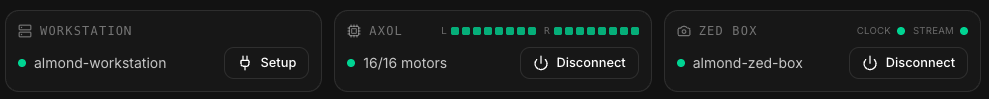
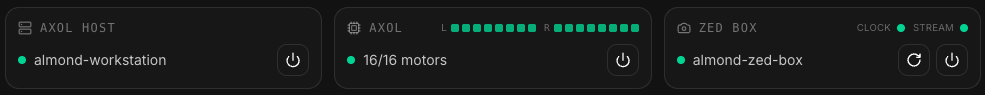
update docs

diff --git a/web/app/src/components/connections-bar.tsx b/web/app/src/components/connections-bar.tsx
@@ -33,11 +33,11 @@ function Tile({
   headerRight?: ReactNode
 }) {
   return (
-    <div className="group relative flex min-w-0 flex-1 flex-col gap-2 rounded-xl border border-white/10 bg-white/[0.02] p-3">
+    <div className="group relative flex min-w-0 flex-1 flex-col gap-2 overflow-hidden rounded-xl border border-white/10 bg-white/[0.02] p-3">
       <div className="flex items-center justify-between gap-2">
-        <div className="flex items-center gap-2 text-xs tracking-widest text-white/40 uppercase">
+        <div className="flex min-w-0 items-center gap-2 text-xs tracking-widest text-white/40 uppercase">
           {icon}
-          <span className="font-mono">{title}</span>
+          <span className="truncate font-mono">{title}</span>
         </div>
         {headerRight}
       </div>
@@ -134,7 +134,7 @@ export function ConnectionsBar({
       : "Not connected"
 
   return (
-    <div className="grid grid-cols-1 gap-3 sm:grid-cols-3">
+    <div className="grid grid-cols-1 gap-3 lg:grid-cols-3">
       <Tile
         icon={<Server className="size-3.5" />}
         title="Axol Host"
@@ -297,7 +297,7 @@ export function MotorGrid({ robot }: { robot: RobotStatus }) {
   if (!robot.motors.length) return null
   const arms = ["left", "right"]
   return (
-    <div className="flex items-center gap-2">
+    <div className="flex flex-wrap items-center justify-end gap-x-2 gap-y-1">
       {arms.map((arm) => (
         <div key={arm} className="flex items-center gap-1">
           <span className="font-mono text-[0.6rem] text-white/35">{arm[0].toUpperCase()}</span>

diff --git a/almond_axol/cli/serve.py b/almond_axol/cli/serve.py
@@ -22,11 +22,10 @@ import time
 import webbrowser
 from pathlib import Path
 
-# Share the VR server's self-signed certificate so a single cert acceptance
-# covers both the teleop WSS link and this control-panel API.
-_CERTS_DIR = os.path.join(os.path.expanduser("~"), ".almond", "vr", "certs")
-_CERTFILE = os.path.join(_CERTS_DIR, "cert.pem")
-_KEYFILE = os.path.join(_CERTS_DIR, "key.pem")
+from ..certs import CERTFILE, KEYFILE, create_self_signed_cert
+
+# The VR server and this control-panel API share one self-signed certificate
+# (see ``almond_axol.certs``) so a single browser cert acceptance covers both.
 
 
 def add_parser(subparsers) -> None:  # type: ignore[type-arg]
@@ -93,7 +92,7 @@ def run(args: argparse.Namespace) -> None:
     ssl_kwargs: dict[str, str] = {}
     if tls:
         _ensure_cert()
-        ssl_kwargs = {"ssl_certfile": _CERTFILE, "ssl_keyfile": _KEYFILE}
+        ssl_kwargs = {"ssl_certfile": CERTFILE, "ssl_keyfile": KEYFILE}
     scheme = "https" if tls else "http"
 
     local = f"{scheme}://localhost:{args.port}"
@@ -120,12 +119,10 @@ def run(args: argparse.Namespace) -> None:
 
 def _ensure_cert() -> None:
     """Generate the shared self-signed cert on first use (idempotent)."""
-    if os.path.isfile(_CERTFILE) and os.path.isfile(_KEYFILE):
+    if os.path.isfile(CERTFILE) and os.path.isfile(KEYFILE):
         return
-    from ..vr.certs import create_self_signed_cert
-
     print("Generating self-signed TLS certificate ...")
-    create_self_signed_cert(_CERTFILE, _KEYFILE)
+    create_self_signed_cert(CERTFILE, KEYFILE)
 
 
 def _open_browser_when_ready(url: str) -> None:

diff --git a/almond_axol/vr/server.py b/almond_axol/vr/server.py
@@ -38,13 +38,11 @@ import uvicorn
 from fastapi import FastAPI, WebSocket, WebSocketDisconnect
 from fastapi.responses import HTMLResponse
 
-from .certs import ACCEPT_PAGE_HTML, create_self_signed_cert
+from ..certs import ACCEPT_PAGE_HTML, CERTFILE, KEYFILE, create_self_signed_cert
 from .config import VRServerConfig
 from .models import VRFrame
 
 _logger = logging.getLogger(__name__)
-
-_CERTS_DIR = os.path.join(os.path.expanduser("~"), ".almond", "vr", "certs")
 
 
 class VRServer:
@@ -66,8 +64,8 @@ class VRServer:
         """
         self._port = config.port
         self._on_frame: Callable[[VRFrame], None] | None = None
-        self._certfile = config.certfile or os.path.join(_CERTS_DIR, "cert.pem")
-        self._keyfile = config.keyfile or os.path.join(_CERTS_DIR, "key.pem")
+        self._certfile = config.certfile or CERTFILE
+        self._keyfile = config.keyfile or KEYFILE
 
         self._latest_frame: VRFrame | None = None
         self._client_count: int = 0

diff --git a/almond_axol/serve/app.py b/almond_axol/serve/app.py
@@ -20,8 +20,8 @@ from fastapi.middleware.cors import CORSMiddleware
 from fastapi.responses import FileResponse, HTMLResponse, JSONResponse
 from pydantic import BaseModel
 
+from ..certs import ACCEPT_PAGE_HTML
 from ..sudo import SUDO_PASSWORD_ENV
-from ..vr.certs import ACCEPT_PAGE_HTML
 from .commands import command_specs
 from .manager import Session, SessionManager
 from .netdetect import best_eth_iface, iface_owning, list_eth_ifaces